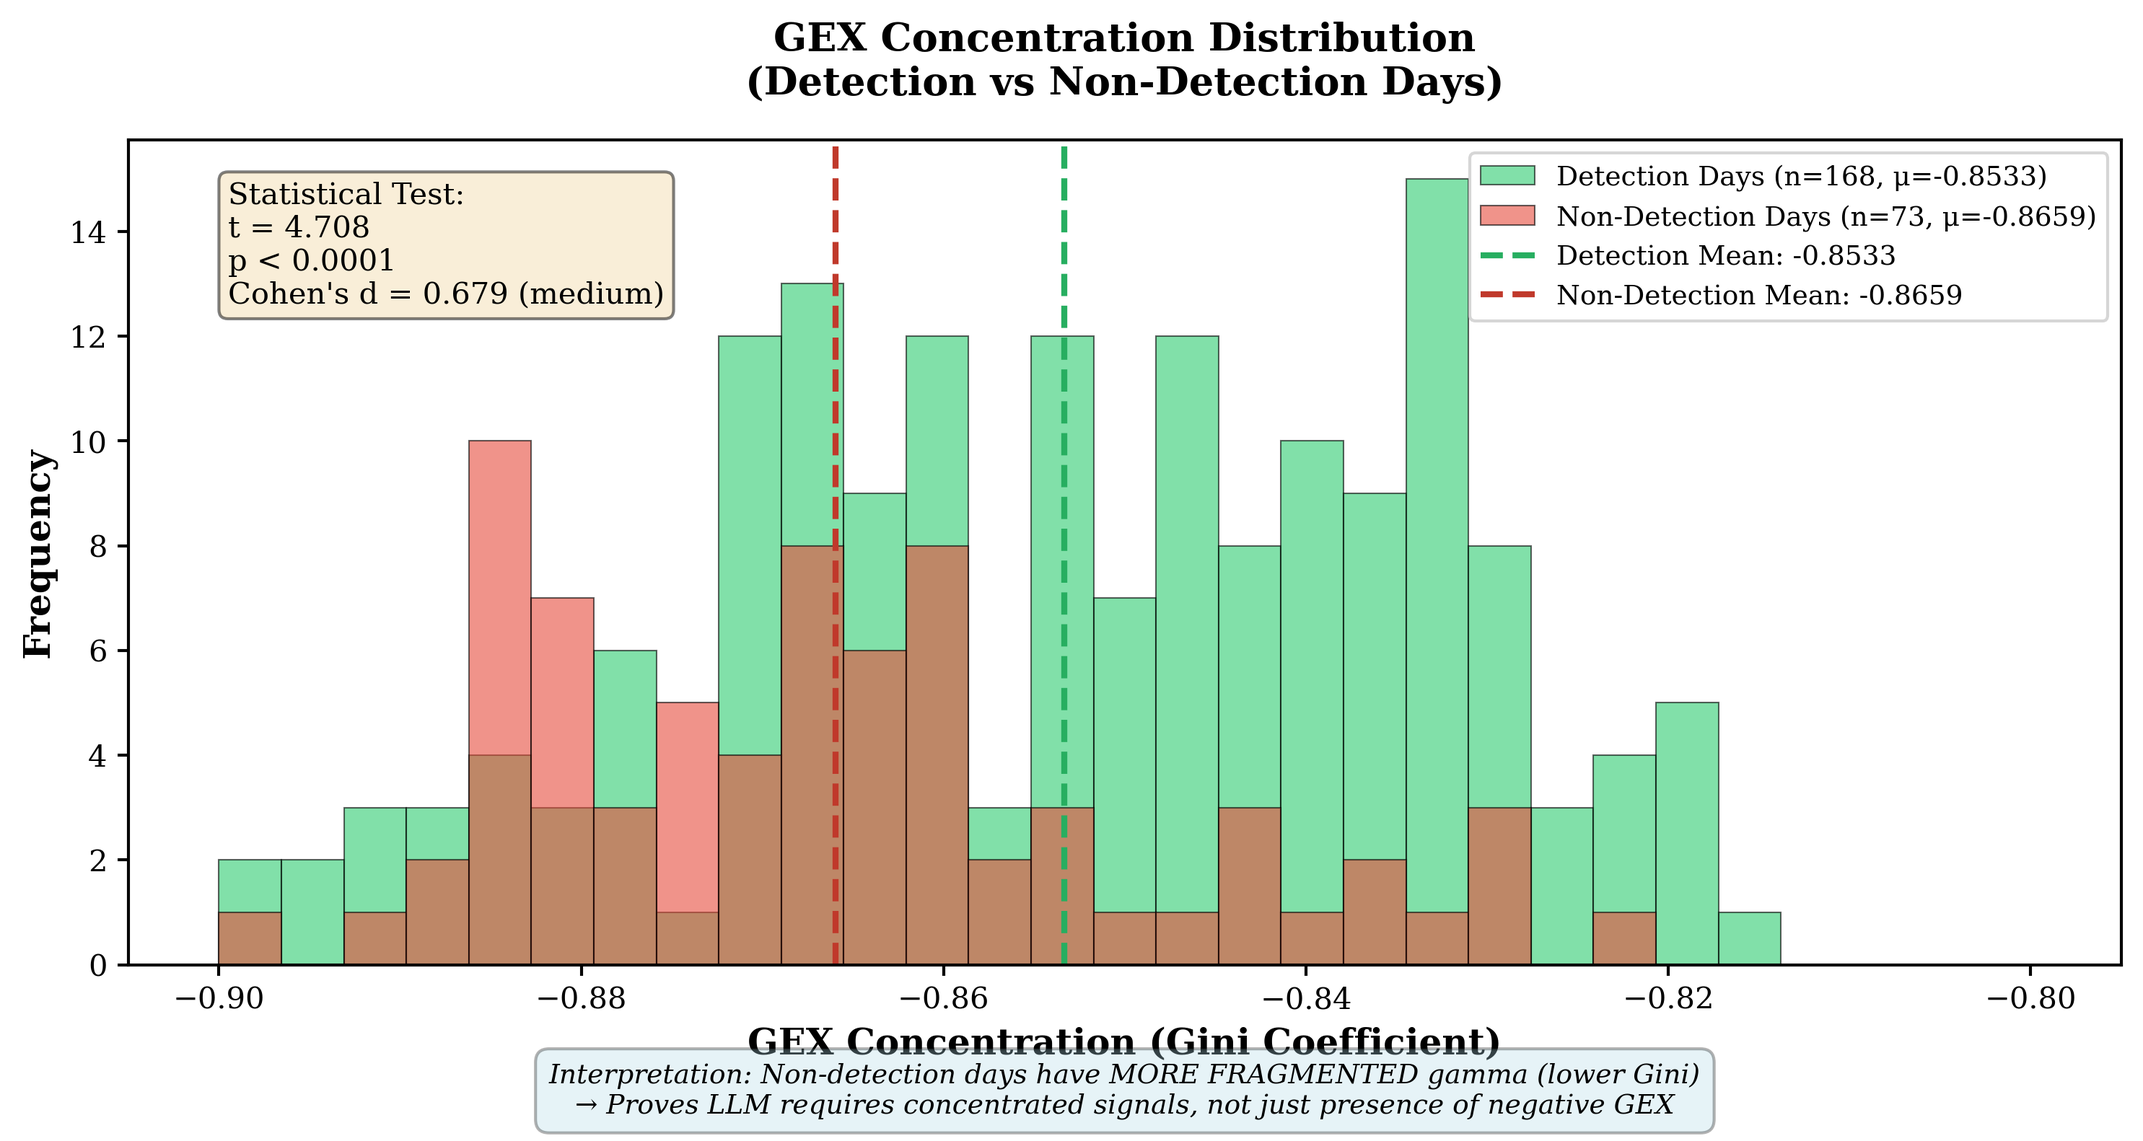
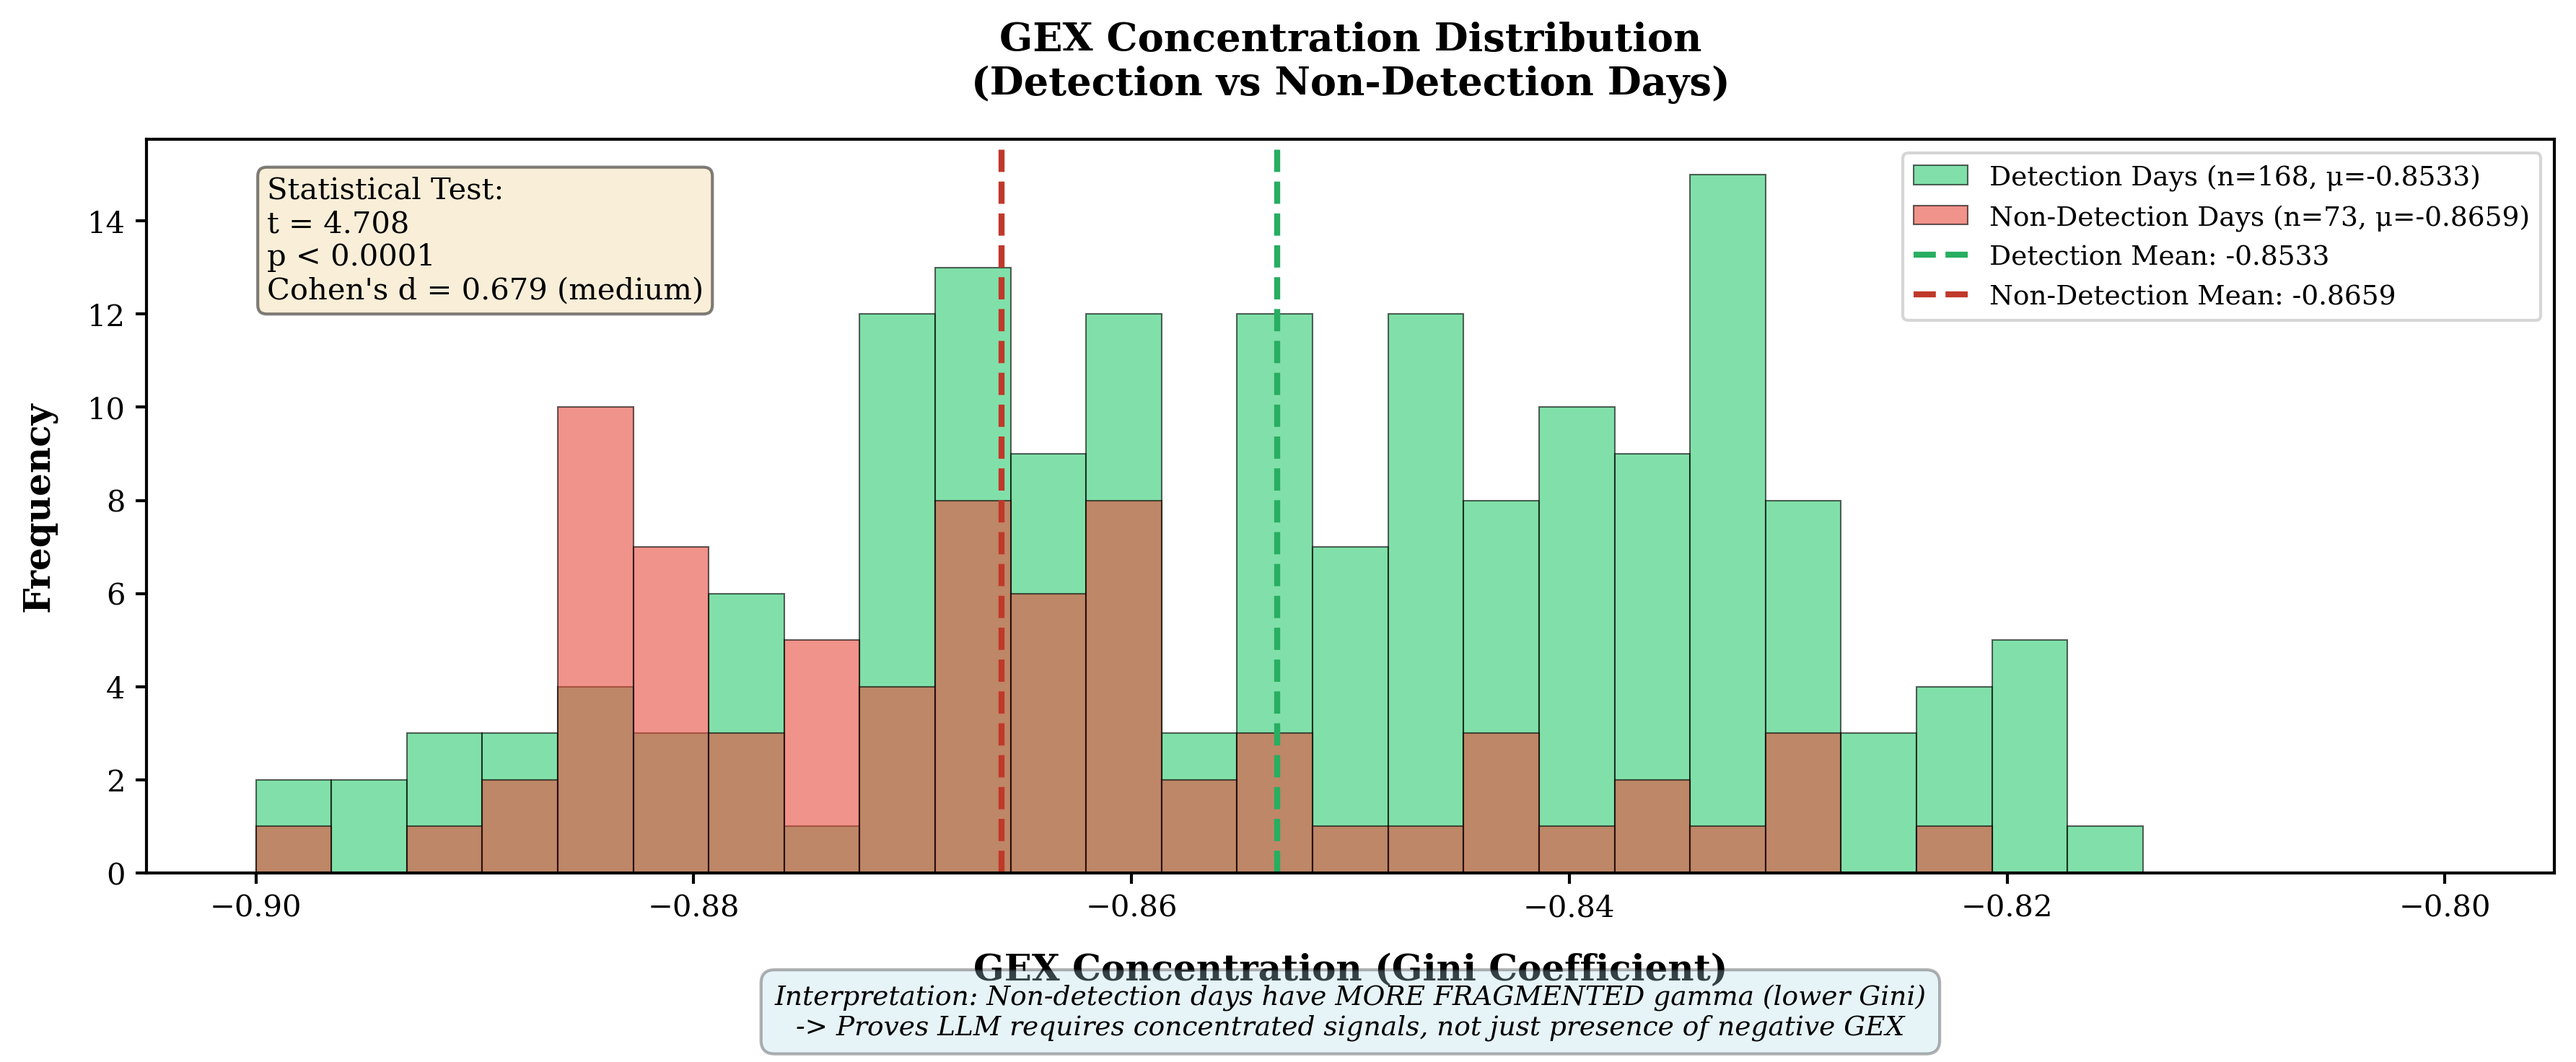
fix: Improve fig10 x-axis label spacing
- Increase figure width from 10 to 12 inches for more horizontal space
- Add labelpad=10 to x-axis and y-axis labels for better positioning
- Move interpretation text further down (y=-0.22) to avoid overlapping x-label
- Increase bottom margin (rect=[0, 0.12, 1, 1]) to fit both labels

diff --git a/docs/papers/paper1/figures/scripts/issue_141_visualizations.py b/docs/papers/paper1/figures/scripts/issue_141_visualizations.py
@@ -159,7 +159,8 @@ def create_concentration_distribution(df, output_path):
     detected = df[df["detected"] == True]["gex_concentration"].dropna()
     not_detected = df[df["detected"] == False]["gex_concentration"].dropna()
 
-    fig, ax = plt.subplots(figsize=(10, 6))
+    # Wider figure to give more space for x-axis label
+    fig, ax = plt.subplots(figsize=(12, 6))
 
     # Create histograms
     bins = np.linspace(-0.90, -0.80, 30)
@@ -211,8 +212,8 @@ def create_concentration_distribution(df, output_path):
         bbox=dict(boxstyle="round", facecolor="wheat", alpha=0.5),
     )
 
-    ax.set_xlabel("GEX Concentration (Gini Coefficient)", fontsize=12, fontweight="bold")
-    ax.set_ylabel("Frequency", fontsize=12, fontweight="bold")
+    ax.set_xlabel("GEX Concentration (Gini Coefficient)", fontsize=12, fontweight="bold", labelpad=10)
+    ax.set_ylabel("Frequency", fontsize=12, fontweight="bold", labelpad=10)
     ax.set_title(
         "GEX Concentration Distribution\n(Detection vs Non-Detection Days)",
         fontsize=13,
@@ -222,12 +223,12 @@ def create_concentration_distribution(df, output_path):
     ax.legend(loc="upper right", fontsize=9, frameon=True)
     # Grid removed for cleaner bar chart appearance
 
-    # Add interpretation text - moved lower with more padding
+    # Add interpretation text - positioned below x-axis label with sufficient clearance
     ax.text(
         0.5,
-        -0.18,
+        -0.22,
         "Interpretation: Non-detection days have MORE FRAGMENTED gamma (lower Gini)\n"
-        + "→ Proves LLM requires concentrated signals, not just presence of negative GEX",
+        + "-> Proves LLM requires concentrated signals, not just presence of negative GEX",
         transform=ax.transAxes,
         fontsize=9,
         ha="center",
@@ -235,8 +236,8 @@ def create_concentration_distribution(df, output_path):
         bbox=dict(boxstyle="round,pad=0.5", facecolor="lightblue", alpha=0.3),
     )
 
-    # Increase bottom margin for interpretation text
-    plt.tight_layout(rect=[0, 0.08, 1, 1])
+    # Increase bottom margin for interpretation text (larger margin to fit both x-label and interpretation)
+    plt.tight_layout(rect=[0, 0.12, 1, 1])
     plt.savefig(output_path, bbox_inches="tight", dpi=300)
     print(f"  Saved: {output_path}")
     plt.close()
